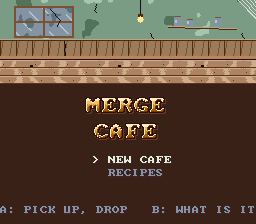
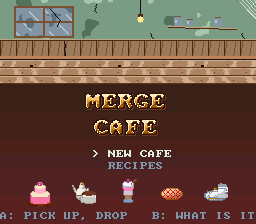
Merge Café: an art pass: chalkboard panels and HUD tags, a livelier title
colors.mjs measured the brown panels as mud (0.88 against a limit of 0.3):
they are deep green chalkboards now (0.13). The coins and stars sit on tags,
the title has a gradient and the best item of each line on parade; new label.

Claude-Session: https://claude.ai/code/session_01KDMa8Kqtu3JNjMjnTMBDRF

Changed region(s): [[0.0, 0.6562, 1.0, 1.0], [0.3125, 0.4062, 0.6562, 0.625]]

diff --git a/carts/src/merge-cafe/code.js b/carts/src/merge-cafe/code.js
@@ -4,7 +4,7 @@
 
 // --- Colours: the default palette's overlay colours (the overlay's index 0 is transparent) ---
 
-const SHADOW = 1, PANEL = 3, RED = 6, ORANGE = 9, DIM = 10, GREEN = 11, CYAN = 13, GOLD = 14, WHITE = 15, CREAM = 114, SOLID = 113;   // CREAM and SOLID (a panel's fill) are under 192, so blending leaves them opaque
+const SHADOW = 1, PANEL = 3, RED = 6, ORANGE = 9, DIM = 10, GREEN = 11, CYAN = 13, GOLD = 14, WHITE = 15, CREAM = 114, SOLID = 113, CHALK = 115;   // under 192, so blending leaves them opaque: CREAM text, SOLID a panel's fill (a chalkboard green), CHALK its inner line
 
 // ART (generated by art.py: do not edit)
 const ART = {
@@ -296,8 +296,8 @@ function init() {
   const bd = ART.scenes.board, cf = ART.scenes.cafe, lg = ART.scenes.logo;
   bg(0, { mx: bd.mx, my: bd.my, mw: bd.w, mh: bd.h, x: 0, y: 0, wrap: false, show: true });
   bg(1, { mx: cf.mx, my: cf.my, mw: cf.w, mh: 11, x: 0, y: 0, wrap: false, show: true });
-  bg(2, { mx: lg.mx, my: lg.my, mw: lg.w, mh: lg.h, x: 0, y: -96, wrap: false, show: false });
-  color(CREAM, 30, 27, 20); color(SOLID, 6, 3, 2); color(0, 7, 4, 3);   // the backdrop: dark wood, for the title
+  bg(2, { mx: lg.mx, my: lg.my, mw: lg.w, mh: lg.h, x: 0, y: -92, wrap: false, show: false });
+  color(CREAM, 30, 27, 20); color(SOLID, 3, 8, 7); color(CHALK, 7, 15, 13); color(0, 7, 4, 3);   // panels are chalkboards (a brown one read as mud); the backdrop dark wood
   blend({ layers: ['overlay'], half: true });                       // overlay colours from 192 up (GLASS) are see-through panels
   applyCafe();
   if (skipTitle) { if (hasSave()) loadGame(); else newCafe(); toPlay(); } else toTitle();
@@ -555,7 +555,7 @@ function drawProps() {
   if (doneKind('cake')) drawPic(picOf(item(0, 6)), 220 - 72, 30 - 1, { prio: 1 });
   prop('curtains', 6, 2); prop('curtains', 50, 2, { fx: true }); prop('flowerbox', 28, 14);
   prop('lamp', 124, -6); prop('plant', 226, -5); prop('jars', 182, -5);
-  if (doneKind('menu')) { rectfill(96, 62, 64, 21, 1); rect(96, 62, 64, 21, 4); print('TODAY:', 104, 64, WHITE); print(served % 2 ? 'TARTS' : 'LATTES', 104, 74, GOLD); }   // a chalkboard on the counter's front
+  if (doneKind('menu')) { rectfill(96, 62, 64, 21, SOLID); rect(96, 62, 64, 21, CHALK); print('TODAY:', 104, 64, WHITE); print(served % 2 ? 'TARTS' : 'LATTES', 104, 74, GOLD); }   // a chalkboard on the counter's front
   if (doneKind('sign')) { rectfill(22, 14, 18, 8, 6); print('OPEN', 23, 15, WHITE); }
   if (doneKind('clock')) { circfill(196, 12, 7, 15); circ(196, 12, 7, 4); line(196, 12, 196, 7, 1); line(196, 12, 196 + Math.round(4 * Math.cos(clock / 600)), 12 + Math.round(4 * Math.sin(clock / 600)), 1); }
   if (doneKind('pictures')) { const sea = styleName('pictures') === 'THE SEA'; for (const x of [100, 156]) { rectfill(x, 6, 12, 10, 4); rectfill(x + 2, 8, 8, 6, sea ? 13 : 11); if (!sea) pset(x + 5, 10, 8); } }
@@ -582,10 +582,11 @@ function drawBoard() {
 }
 
 function drawHud() {
-  txt(`COINS ${coins}`, 4, 64, GOLD);                               // on the counter's front, clear of the bubbles
-  const st = `STARS ${stars}`; txt(st, 252 - st.length * 8, 64, CREAM);
+  const cs = `COINS ${coins}`, st = `STARS ${stars}`;                 // on the counter's front, clear of the bubbles, each on a chalkboard tag
+  rectfill(1, 62, cs.length * 8 + 6, 12, SOLID); txt(cs, 4, 64, GOLD);
+  rectfill(249 - st.length * 8, 62, st.length * 8 + 6, 12, SOLID); txt(st, 252 - st.length * 8, 64, CREAM);
   const a = areasDone();
-  if (a < 6 && stars >= TASK_COST[a] && ((clock >> 5) & 1)) txt('START: CAFE', 252 - 88, 74, GOLD);
+  if (a < 6 && stars >= TASK_COST[a] && ((clock >> 5) & 1)) { rectfill(1, 74, 94, 10, SOLID); txt('START: CAFE', 4, 75, GOLD); }   // a task can be bought: under the coins, clear of the menu board
   if (ask) {
     const v = board[ask.i];
     panel(24, 120, 208, 40);
@@ -664,8 +665,9 @@ function drawRecipes() {
 function drawTitle() {
   if (confirm) { panel(32, 150, 192, 40); ctxt('START A NEW CAFE?', 158, WHITE); ctxt('YOUR SAVED ONE IS LOST.  A: YES  B: NO', 172, ORANGE); return; }
   const items = hasSave() ? ['CONTINUE', 'NEW CAFE', 'RECIPES'] : ['NEW CAFE', 'RECIPES'];
-  items.forEach((s, i) => txt(`${i === titleSel ? '> ' : '  '}${s}`, 92, 156 + i * 13, i === titleSel ? WHITE : DIM));
-  ctxt('A: PICK UP, DROP   B: WHAT IS IT', 206, DIM);
+  items.forEach((s, i) => txt(`${i === titleSel ? '> ' : '  '}${s}`, 92, 150 + i * 12, i === titleSel ? WHITE : DIM));
+  for (let k = 0; k < 5; k++) drawPic(picOf(item(k, 6)), 24 + k * 44, flr(178 + 2 * Math.sin(clock / 20 + k)), { prio: 2 });   // the best of each line, on parade
+  ctxt('A: PICK UP, DROP   B: WHAT IS IT', 212, DIM);
 }
 
 function drawEnding() {
@@ -683,6 +685,13 @@ function drawPause() {
 }
 
 /** A panel: solid over the busy board (seeThrough for a light one over the picture). */
-function panel(x, y, w, h, seeThrough = false) { rectfill(x, y, w, h, seeThrough ? ART.colors.GLASS : SOLID); rect(x, y, w, h, GOLD); rect(x + 1, y + 1, w - 2, h - 2, SHADOW); }
+function panel(x, y, w, h, seeThrough = false) { rectfill(x, y, w, h, seeThrough ? ART.colors.GLASS : SOLID); rect(x, y, w, h, GOLD); rect(x + 2, y + 2, w - 4, h - 4, CHALK); }
 function txt(s, x, y, c) { print(s, x + 1, y + 1, SHADOW); print(s, x, y, c); }
 const ctxt = (s, y, c) => txt(s, 128 - s.length * 4, y, c);
+
+/** Each line: on the title, the backdrop under the café is a warm gradient (one colour there read as a flat picture). */
+function scanline(y) {
+  if (state !== 'title' || y < 84) return;
+  const k = (y - 84) / 140;
+  color(0, 7 + k * 5, 4 + k * 1, 3 + k * 2);
+}

diff --git a/docs/carts/merge-cafe.md b/docs/carts/merge-cafe.md
@@ -267,6 +267,8 @@ The game saves after every change (a merge, an order, a task), so turning the co
 
 **Step 7, the art pass:** the gallery (11 screens) was looked through and these fixed: the coins and stars went under the third bubble (now on the counter's front), a cream text colour was translucent (an overlay colour over 192), the item and order cards were hidden by a test's held item, the menu board's lines overlapped, the café screen's help ran off its panel, the restored sage paint was too close to the shabby one, and "a new sign" had no place on a wall full of customers: it is now **a doorbell** that chimes when a customer comes in.
 
+**A last art pass (after the release), from `critique.mjs` and `colors.mjs`:** the panels were a dark brown that measured as mud (0.88, the limit 0.3): they are now **chalkboards** (a deep green with a gold rim and a lighter inner line), and the menu board on the counter matches them (mud 0.13). The coins, the stars and "START: CAFE" sit on small chalkboard tags of their own (they were hard to read on the counter's grain). The title was a flat field under the logo (55 % one colour): it has a warm gradient line by line (`scanline`), the logo higher, and the best item of each line on parade under the menu; a new label. The critique's warnings went from 10 to 3 (text over the café's picture on the cards, which sit on solid panels). The wheat was tried again as a tied sheaf and read worse (a mushroom): the agreed one stays.
+
 **Step 8, the audio:** the three jazz songs and 19 effects of section 11.
 
 **Step 9, built:** the bot plays the whole campaign with the buttons at a person's pace (`pace` 12: five presses a second), serving, merging towards what is wanted, opening crates, closing the cards, buying each task when it can (through the probe). Prices were tuned from it: at first (tasks 3 to 12 stars, rewards twice the value, the favourite and special doubling and tripling) it reopened the café in **21 minutes**; now (tasks 8 to 40 stars, 528 in all; coins the value; a star more for a favourite, the special doubled; crates 10 more each) it takes **86 minutes** (two seeds: the areas done at 2, 6, 11 or 12, 29, 53 or 54 and 86 minutes; about 230 orders served, 9 crates opened, 3,200 merges). A person who stops to think will take about twice that: 2 to 3 hours. Nothing ever left it stuck. The label (the title), the PNG cart, the Library entry, a README row and the playbook's section 14.
